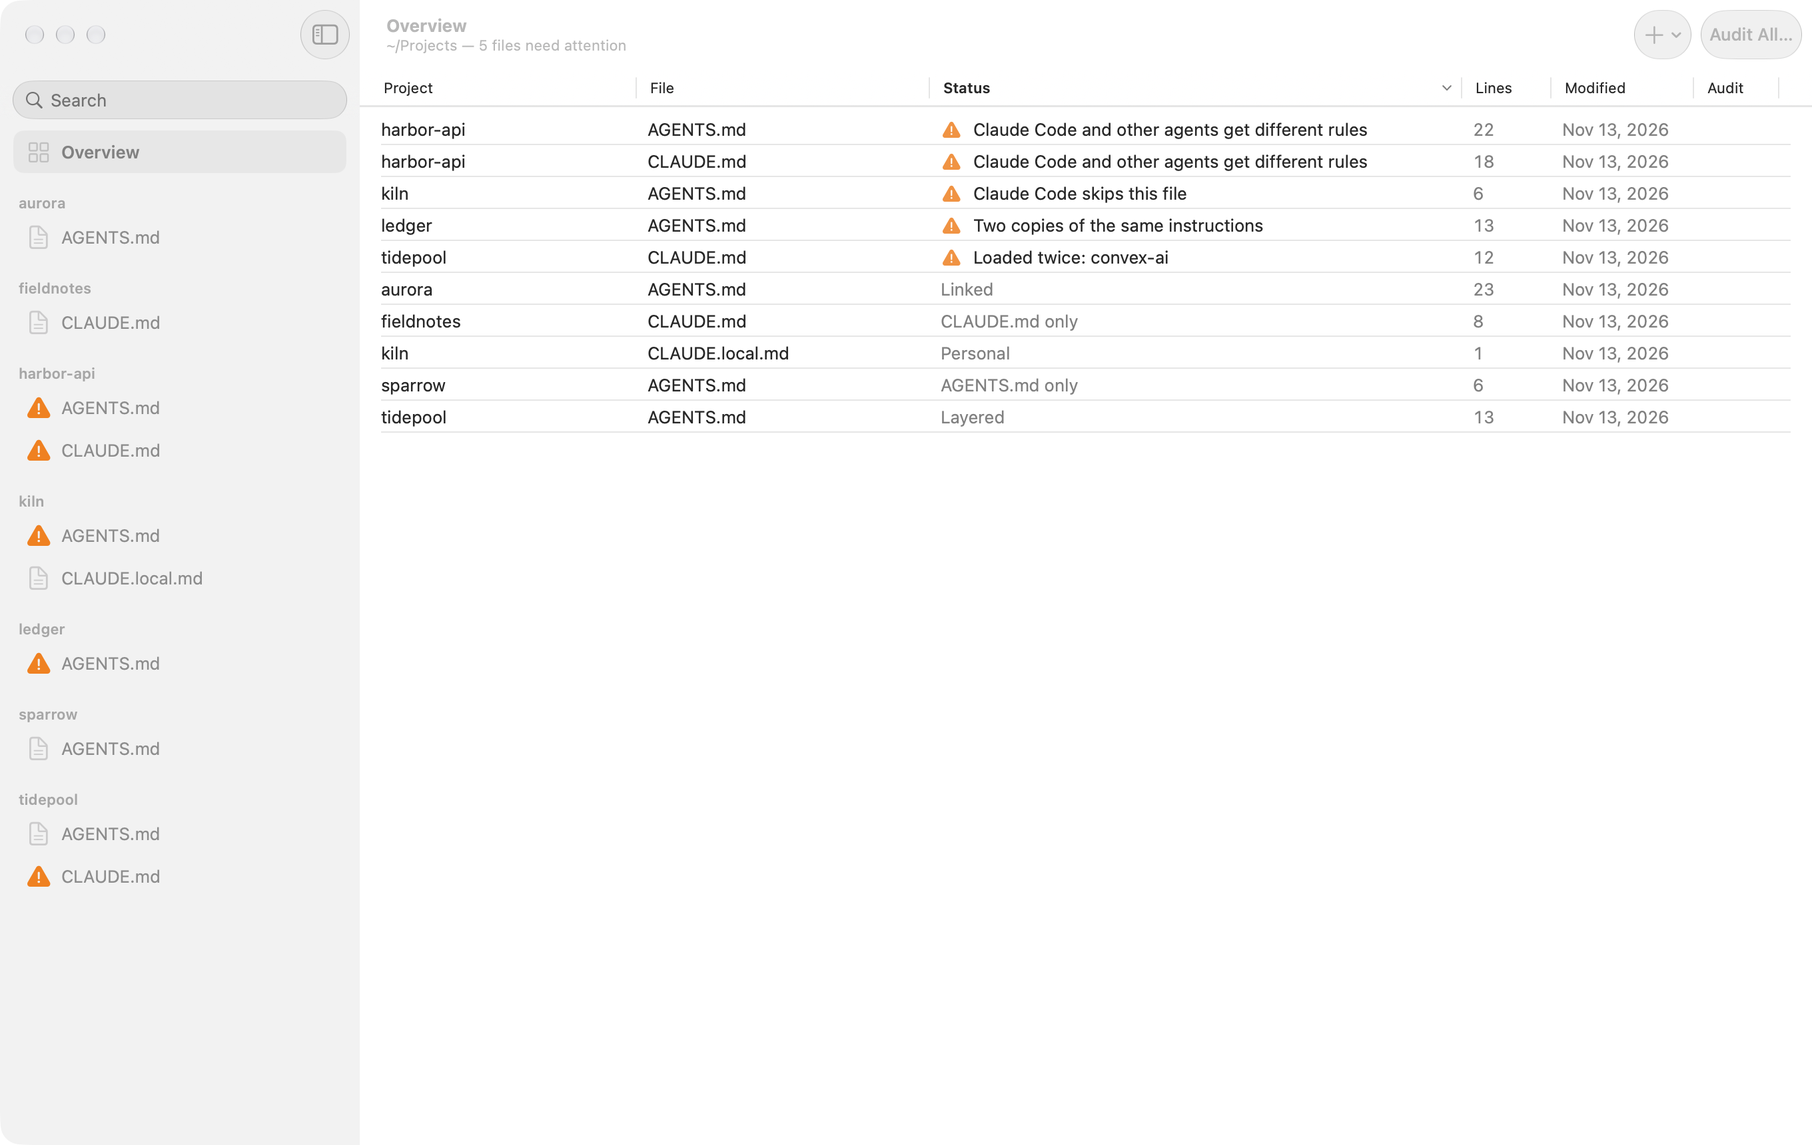
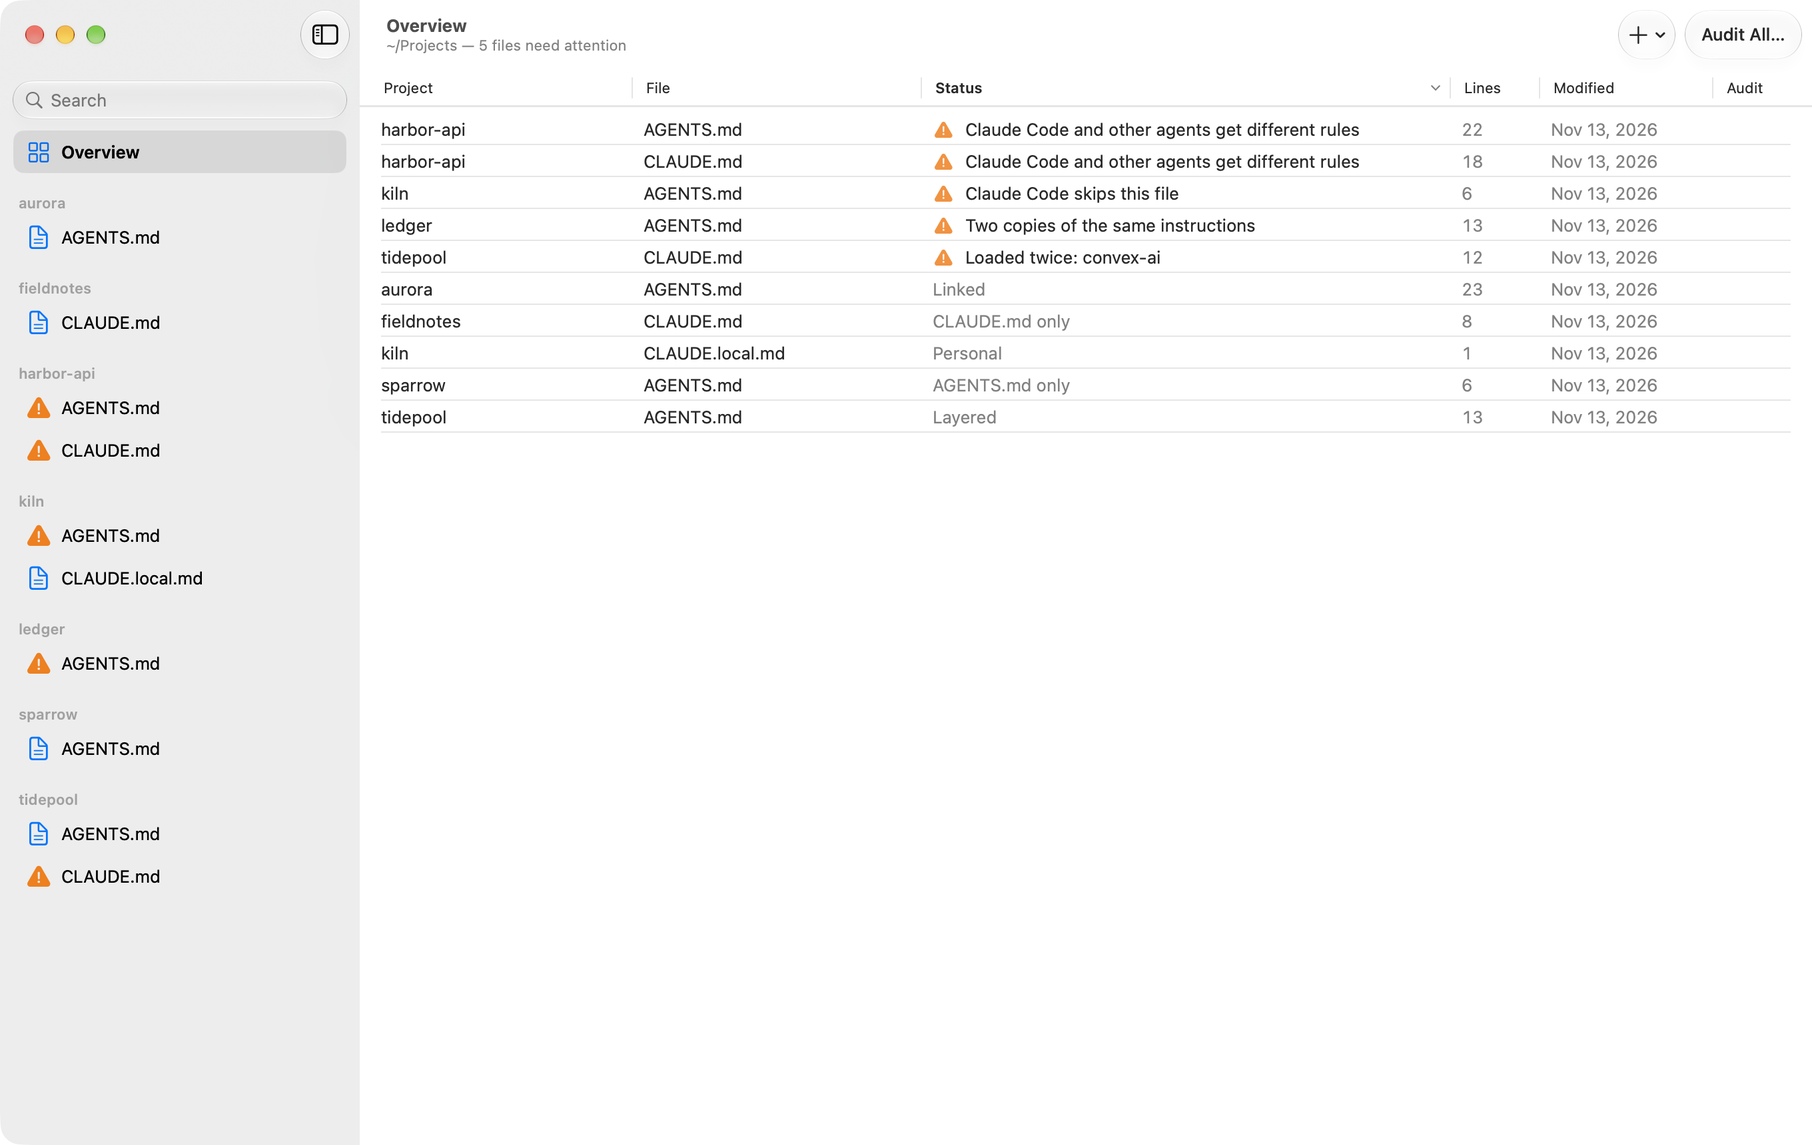
Add the website, a release script, a sidebar context menu and layout fixes
- docs/ is now the website for rulebook.duxi.ao, in English and Chinese
- scripts/release.sh builds a universal app and publishes it as a GitHub release
- Right-clicking a file in the sidebar opens a menu of actions
- Text toolbar buttons get side padding; the audit score no longer hangs beside a wrapped verdict
- The date column fits Chinese dates; screenshots capture an active window

diff --git a/docs/zh/index.html b/docs/zh/index.html
@@ -1,0 +1,88 @@
+<!doctype html>
+<html lang="zh-Hans">
+<head>
+<meta charset="utf-8">
+<meta name="viewport" content="width=device-width, initial-scale=1">
+<title>Rulebook：集中管理所有 CLAUDE.md 和 AGENTS.md</title>
+<meta name="description" content="一款 Mac 应用，找出所有项目里编程智能体读取的指令文件，告诉你哪些已经不一致，并帮你修好。">
+<meta property="og:title" content="Rulebook：集中管理所有 CLAUDE.md 和 AGENTS.md">
+<meta property="og:description" content="一款 Mac 应用，找出所有项目里编程智能体读取的指令文件，告诉你哪些已经不一致，并帮你修好。">
+<meta property="og:image" content="https://rulebook.duxi.ao/screenshots/overview.png">
+<meta property="og:url" content="https://rulebook.duxi.ao/zh/">
+<meta name="twitter:card" content="summary_large_image">
+<link rel="icon" href="../logo/icon.png">
+<link rel="alternate" hreflang="en" href="https://rulebook.duxi.ao/">
+<link rel="alternate" hreflang="zh-Hans" href="https://rulebook.duxi.ao/zh/">
+<link rel="stylesheet" href="../site.css">
+</head>
+<body>
+
+<header class="column top">
+  <a class="name" href="./">Rulebook</a>
+  <nav>
+    <a href="https://github.com/disinfeqt/rulebook">GitHub</a>
+    <a href="../" lang="en">English</a>
+  </nav>
+</header>
+
+<div class="rules"><div class="column"><svg viewBox="84 5 403.85 472" role="img" aria-label="R"><path d="M176.00 287.00L227.23 287.00L372.15 477.00L487.85 477.00L334.57 276.03C385.35 254.71 421.00 204.52 421.00 146.00C421.00 68.13 357.87 5.00 280.00 5.00L84.00 5.00L84.00 477.00L176.00 477.00ZM176.00 195.00L176.00 97.00L280.00 97.00C307.06 97.00 329.00 118.94 329.00 146.00C329.00 173.06 307.06 195.00 280.00 195.00Z"/></svg></div></div>
+
+<main class="column">
+  <div class="opening">
+    <h1>Mac 上所有的 CLAUDE.md 和 AGENTS.md，集中在一处。</h1>
+    <p class="lede">Rulebook 会找出所有项目里编程智能体读取的指令文件，告诉你哪些已经互相不一致，哪些根本没被读到，哪些还是为去年的模型写的，然后帮你把它们修好。</p>
+    <div class="get">
+      <a class="download" href="https://github.com/disinfeqt/rulebook/releases/latest/download/Rulebook.zip">下载 macOS 版</a>
+      <p>免费开源，需要 macOS 14 或更高版本。</p>
+    </div>
+  </div>
+
+  <figure><img src="../screenshots/zh/overview.png" width="2720" height="1720" alt="Rulebook 的概览：项目文件夹里所有指令文件的列表，需要处理的排在最前"></figure>
+
+  <section>
+    <h2>看清每个智能体实际读到了什么</h2>
+    <p>Claude Code 读 <code>CLAUDE.md</code>，Codex、Cursor 和大多数其他智能体读 <code>AGENTS.md</code>。当一个项目里两者都有时，Rulebook 会判断它们之间的关系，并告诉你每个文件由谁读取。</p>
+    <dl class="states">
+      <dt>已关联</dt><dd><code>CLAUDE.md</code> 只是导入 <code>AGENTS.md</code>，或是指向它的符号链接。所有智能体读的是同一份文件。</dd>
+      <dt>分层</dt><dd><code>CLAUDE.md</code> 导入了 <code>AGENTS.md</code>，并补充了只给 Claude Code 的规则。</dd>
+      <dt>内容重复</dt><dd>两份完全相同的副本。Rulebook 只显示一份，存储时同时写入两份。</dd>
+      <dt>内容不一致</dt><dd>两份内容不同的文件，每个智能体都读不到另一方的规则。</dd>
+      <dt>被跳过</dt><dd><code>AGENTS.md</code> 被 <code>CLAUDE.local.md</code> 或上级目录的 <code>CLAUDE.md</code> 取代，Claude Code 不会加载它。</dd>
+    </dl>
+    <figure><img src="../screenshots/zh/editor.png" width="2720" height="1720" loading="lazy" alt="正在编辑一份与 AGENTS.md 不一致的 CLAUDE.md，检查器里显示谁在读取这个文件，以及它有什么问题"></figure>
+  </section>
+
+  <section>
+    <h2>对比并合并已经不一致的文件</h2>
+    <p>两份文件出现差异时，“对比”会把它们并排显示。“合并”会让你的智能体把两者合成一份 <code>AGENTS.md</code>，以及一份导入它的 <code>CLAUDE.md</code>。存储之前，你可以先检查结果。</p>
+    <figure><img src="../screenshots/zh/compare.png" width="2720" height="1720" loading="lazy" alt="AGENTS.md 和 CLAUDE.md 并排显示，只有一方能读到的行被高亮"></figure>
+  </section>
+
+  <section>
+    <h2>用你已经在用的智能体来审查</h2>
+    <p>审查会对照项目检查一个文件：为旧模型写的指令、已经不存在的命令和路径、互相矛盾的规则。你会得到一个评分、可以跳转到对应原文的问题列表，以及以差异形式呈现的修改建议。</p>
+    <p>审查通过 <strong>Claude Code</strong> 或 <strong>Codex</strong> 运行，使用你已有的登录，并且无法修改你的文件。应用界面和审查结果都支持简体中文和英文。</p>
+    <figure><img src="../screenshots/zh/audit.png" width="2720" height="1720" loading="lazy" alt="检查器里的一次审查：评分、一句话结论和问题列表"></figure>
+  </section>
+
+  <section class="install" id="install">
+    <h2>安装</h2>
+    <ol>
+      <li><a href="https://github.com/disinfeqt/rulebook/releases/latest/download/Rulebook.zip">下载 Rulebook.zip</a> 并打开。</li>
+      <li>把 Rulebook 拖到“应用程序”文件夹，然后打开它。</li>
+      <li>选择存放各个项目的文件夹。</li>
+    </ol>
+    <p>第一个版本还没有经过 Apple 公证，所以第一次打开时 macOS 会拒绝。要允许它运行，请打开“系统设置”，进入“隐私与安全性”，在关于 Rulebook 的提示旁点按“仍要打开”。</p>
+    <p>你也可以用 Xcode 26 或更高版本<a href="https://github.com/disinfeqt/rulebook">从源代码构建</a>。</p>
+  </section>
+</main>
+
+<footer>
+  <div class="column">
+    <span>Rulebook 以 MIT 许可证发布。</span>
+    <a href="https://github.com/disinfeqt/rulebook">GitHub 上的源代码</a>
+  </div>
+</footer>
+
+</body>
+</html>

diff --git a/docs/index.html b/docs/index.html
@@ -1,0 +1,88 @@
+<!doctype html>
+<html lang="en">
+<head>
+<meta charset="utf-8">
+<meta name="viewport" content="width=device-width, initial-scale=1">
+<title>Rulebook: every CLAUDE.md and AGENTS.md in one place</title>
+<meta name="description" content="A Mac app that finds the instruction files your coding agents read across all your projects, shows which have drifted apart, and helps you fix them.">
+<meta property="og:title" content="Rulebook: every CLAUDE.md and AGENTS.md in one place">
+<meta property="og:description" content="A Mac app that finds the instruction files your coding agents read across all your projects, shows which have drifted apart, and helps you fix them.">
+<meta property="og:image" content="https://rulebook.duxi.ao/screenshots/overview.png">
+<meta property="og:url" content="https://rulebook.duxi.ao/">
+<meta name="twitter:card" content="summary_large_image">
+<link rel="icon" href="logo/icon.png">
+<link rel="alternate" hreflang="en" href="https://rulebook.duxi.ao/">
+<link rel="alternate" hreflang="zh-Hans" href="https://rulebook.duxi.ao/zh/">
+<link rel="stylesheet" href="site.css">
+</head>
+<body>
+
+<header class="column top">
+  <a class="name" href="./">Rulebook</a>
+  <nav>
+    <a href="https://github.com/disinfeqt/rulebook">GitHub</a>
+    <a href="zh/" lang="zh-Hans">中文</a>
+  </nav>
+</header>
+
+<div class="rules"><div class="column"><svg viewBox="84 5 403.85 472" role="img" aria-label="R"><path d="M176.00 287.00L227.23 287.00L372.15 477.00L487.85 477.00L334.57 276.03C385.35 254.71 421.00 204.52 421.00 146.00C421.00 68.13 357.87 5.00 280.00 5.00L84.00 5.00L84.00 477.00L176.00 477.00ZM176.00 195.00L176.00 97.00L280.00 97.00C307.06 97.00 329.00 118.94 329.00 146.00C329.00 173.06 307.06 195.00 280.00 195.00Z"/></svg></div></div>
+
+<main class="column">
+  <div class="opening">
+    <h1>Every CLAUDE.md and AGENTS.md on your Mac, in one place.</h1>
+    <p class="lede">Rulebook finds the instruction files your coding agents read, across all your projects. It shows which ones have drifted apart, which ones an agent never sees, and which were written for last year's models. Then it helps you fix them.</p>
+    <div class="get">
+      <a class="download" href="https://github.com/disinfeqt/rulebook/releases/latest/download/Rulebook.zip">Download for macOS</a>
+      <p>Free and open source. Needs macOS 14 or later.</p>
+    </div>
+  </div>
+
+  <figure><img src="screenshots/overview.png" width="2720" height="1720" alt="Rulebook's overview: a table of every instruction file in a projects folder, with the ones that need attention at the top"></figure>
+
+  <section>
+    <h2>See what each agent actually reads</h2>
+    <p>Claude Code reads <code>CLAUDE.md</code>. Codex, Cursor and most other agents read <code>AGENTS.md</code>. When a project has both, Rulebook works out how they relate and tells you who reads each file.</p>
+    <dl class="states">
+      <dt>Linked</dt><dd><code>CLAUDE.md</code> only imports <code>AGENTS.md</code>, or is a symlink to it. Every agent reads the same file.</dd>
+      <dt>Layered</dt><dd><code>CLAUDE.md</code> imports <code>AGENTS.md</code> and adds rules only Claude Code gets.</dd>
+      <dt>Duplicated</dt><dd>Two identical copies. Rulebook shows one and saves both.</dd>
+      <dt>Diverged</dt><dd>Two files with different content, so each agent misses rules the other one gets.</dd>
+      <dt>Skipped</dt><dd>An <code>AGENTS.md</code> that Claude Code never loads, because a <code>CLAUDE.local.md</code> or a parent <code>CLAUDE.md</code> takes its place.</dd>
+    </dl>
+    <figure><img src="screenshots/editor.png" width="2720" height="1720" loading="lazy" alt="Editing a CLAUDE.md that has diverged from its AGENTS.md. The inspector shows who reads the file and what is wrong with it"></figure>
+  </section>
+
+  <section>
+    <h2>Compare and merge files that drifted</h2>
+    <p>When two files have drifted apart, Compare puts them side by side. Merge asks your agent to combine them into one <code>AGENTS.md</code> and a <code>CLAUDE.md</code> that imports it. You review the result before anything is saved.</p>
+    <figure><img src="screenshots/compare.png" width="2720" height="1720" loading="lazy" alt="AGENTS.md and CLAUDE.md side by side, with the lines only one agent sees highlighted"></figure>
+  </section>
+
+  <section>
+    <h2>Audit with the agent you already use</h2>
+    <p>An audit checks a file against its project. It looks for instructions written for older models, commands and paths that no longer exist, and rules that contradict each other. You get a score, findings that jump to the text they are about, and suggested edits as a diff.</p>
+    <p>Audits run through <strong>Claude Code</strong> or <strong>Codex</strong> with your existing login, and they can't change your files. The app and its audits come in English and Simplified Chinese.</p>
+    <figure><img src="screenshots/audit.png" width="2720" height="1720" loading="lazy" alt="An audit in the inspector: a score of 88, a one-line verdict and a list of findings"></figure>
+  </section>
+
+  <section class="install" id="install">
+    <h2>Install</h2>
+    <ol>
+      <li><a href="https://github.com/disinfeqt/rulebook/releases/latest/download/Rulebook.zip">Download Rulebook.zip</a> and open it.</li>
+      <li>Drag Rulebook to your Applications folder and open it.</li>
+      <li>Choose the folder that holds your projects.</li>
+    </ol>
+    <p>This first version isn't notarized by Apple yet, so macOS will refuse to open it the first time. To allow it, open System Settings, go to Privacy &amp; Security, and click Open Anyway next to the message about Rulebook.</p>
+    <p>You can also <a href="https://github.com/disinfeqt/rulebook">build it from source</a> with Xcode 26 or later.</p>
+  </section>
+</main>
+
+<footer>
+  <div class="column">
+    <span>Rulebook is released under the MIT License.</span>
+    <a href="https://github.com/disinfeqt/rulebook">Source on GitHub</a>
+  </div>
+</footer>
+
+</body>
+</html>

diff --git a/docs/site.css b/docs/site.css
@@ -1,0 +1,118 @@
+/* Rulebook's site. The palette and the ruled lines come from the app icon: black ink on paper,
+   and the blue of ruled writing paper. */
+:root {
+  --paper: #fcfbf8;
+  --ink: #17181a;
+  --soft: #5c6068;
+  --rule: #8db9ea;
+  --link: #1f5fbf;
+  --hairline: #e4e2dc;
+  --column: 1040px;
+  --gutter: clamp(20px, 5vw, 56px);
+  color-scheme: light dark;
+}
+@media (prefers-color-scheme: dark) {
+  :root {
+    --paper: #141517;
+    --ink: #f3f2ee;
+    --soft: #a2a6ad;
+    --rule: #4e7fb5;
+    --link: #8db9ea;
+    --hairline: #2a2c30;
+  }
+}
+
+* { box-sizing: border-box; }
+html { -webkit-text-size-adjust: 100%; }
+body {
+  margin: 0;
+  background: var(--paper);
+  color: var(--ink);
+  font: 17px/1.55 -apple-system, BlinkMacSystemFont, "SF Pro Text", "PingFang SC", "Helvetica Neue", "Segoe UI", sans-serif;
+  -webkit-font-smoothing: antialiased;
+}
+a { color: var(--link); text-underline-offset: 0.18em; }
+a:focus-visible, .download:focus-visible { outline: 3px solid var(--rule); outline-offset: 3px; border-radius: 4px; }
+code { font: 0.92em ui-monospace, "SF Mono", Menlo, monospace; }
+
+.column { max-width: var(--column); margin: 0 auto; padding: 0 var(--gutter); }
+
+/* Header */
+.top { display: flex; align-items: baseline; justify-content: space-between; padding-top: 28px; padding-bottom: 28px; }
+.top .name { font-weight: 700; font-size: 19px; letter-spacing: -0.01em; color: var(--ink); text-decoration: none; }
+.top nav { display: flex; gap: 22px; font-size: 15px; }
+.top nav a { color: var(--soft); text-decoration: none; }
+.top nav a:hover { color: var(--ink); text-decoration: underline; }
+
+/* The letter on its three rules: cap height, a dashed midline, the baseline. They run the full width of the page. */
+.rules {
+  --height: clamp(132px, 21vw, 232px);
+  --weight: max(3px, calc(var(--height) * 0.021));
+  position: relative;
+  height: var(--height);
+  border-top: var(--weight) solid var(--rule);
+  border-bottom: var(--weight) solid var(--rule);
+}
+.rules::before {
+  content: "";
+  position: absolute;
+  left: 0; right: 0; top: calc(50% - var(--weight) / 2);
+  height: var(--weight);
+  background: repeating-linear-gradient(90deg, var(--rule) 0 calc(var(--weight) * 4.4), transparent 0 calc(var(--weight) * 7.8));
+}
+.rules .column { height: 100%; position: relative; }
+.rules svg { display: block; height: 100%; width: auto; fill: var(--ink); }
+
+/* Opening */
+.opening { padding-top: clamp(36px, 6vw, 64px); }
+h1 {
+  margin: 0;
+  max-width: 17em;
+  font-size: clamp(34px, 5.4vw, 60px);
+  line-height: 1.06;
+  font-weight: 700;
+  letter-spacing: -0.028em;
+  text-wrap: balance;
+}
+.lede { max-width: 38em; margin: 22px 0 0; font-size: clamp(18px, 2vw, 21px); line-height: 1.5; color: var(--soft); }
+.get { display: flex; flex-wrap: wrap; align-items: center; gap: 14px 22px; margin-top: 30px; }
+.download {
+  display: inline-block;
+  padding: 13px 22px;
+  border-radius: 11px;
+  background: var(--ink);
+  color: var(--paper);
+  font-weight: 600;
+  text-decoration: none;
+}
+.download:hover { opacity: 0.86; }
+.get p { margin: 0; font-size: 15px; color: var(--soft); }
+
+/* Screenshots are window captures with transparent corners, so the shadow follows the window. */
+figure { margin: clamp(40px, 7vw, 72px) 0 0; }
+figure img { display: block; width: 100%; height: auto; filter: drop-shadow(0 18px 38px rgba(0, 0, 0, 0.16)) drop-shadow(0 0 1px rgba(0, 0, 0, 0.28)); }
+@media (prefers-color-scheme: dark) {
+  figure img { filter: drop-shadow(0 18px 38px rgba(0, 0, 0, 0.5)); }
+}
+
+section { padding-top: clamp(72px, 11vw, 128px); }
+h2 { margin: 0; max-width: 20em; font-size: clamp(26px, 3.4vw, 36px); line-height: 1.14; font-weight: 700; letter-spacing: -0.02em; text-wrap: balance; }
+section > p, .install p { max-width: 38em; margin: 16px 0 0; color: var(--soft); }
+section > p strong { color: var(--ink); font-weight: 600; }
+
+/* How CLAUDE.md and AGENTS.md can relate */
+.states { display: grid; grid-template-columns: max-content 1fr; gap: 0 32px; max-width: 46em; margin: 30px 0 0; }
+.states dt, .states dd { margin: 0; padding: 11px 0; border-top: 1px solid var(--hairline); }
+.states dt { font-weight: 600; }
+.states dd { color: var(--soft); }
+@media (max-width: 560px) {
+  .states { grid-template-columns: 1fr; }
+  .states dd { border-top: 0; padding-top: 0; }
+}
+
+.install ol { max-width: 38em; margin: 16px 0 0; padding-left: 1.3em; color: var(--soft); }
+.install li { margin-top: 6px; }
+
+footer { margin-top: clamp(80px, 12vw, 136px); border-top: var(--weight, 3px) solid var(--rule); }
+footer .column { display: flex; flex-wrap: wrap; gap: 8px 24px; justify-content: space-between; padding-top: 24px; padding-bottom: 44px; font-size: 15px; color: var(--soft); }
+footer a { color: var(--soft); }

diff --git a/Sources/Rulebook/App/RulebookApp.swift b/Sources/Rulebook/App/RulebookApp.swift
@@ -42,7 +42,11 @@ final class AppDelegate: NSObject, NSApplicationDelegate {
         // and falls back to an offscreen render, which leaves them blank.
         if let i = args.firstIndex(of: "--snapshot"), i + 1 < args.count {
             let dir = URL(fileURLWithPath: (args[i + 1] as NSString).expandingTildeInPath, isDirectory: true)
-            DispatchQueue.main.asyncAfter(deadline: .now() + 3.5) {
+            // Come to the front first, so the windows are drawn as active ones.
+            DispatchQueue.main.asyncAfter(deadline: .now() + 3) {
+                NSRunningApplication.current.activate(options: [.activateAllWindows])
+            }
+            DispatchQueue.main.asyncAfter(deadline: .now() + 3.6) {
                 try? FileManager.default.createDirectory(at: dir, withIntermediateDirectories: true)
                 for (n, window) in NSApp.windows.filter({ $0.isVisible }).enumerated() {
                     let url = dir.appendingPathComponent("window-\(n).png")

diff --git a/Sources/Rulebook/Views/OverviewView.swift b/Sources/Rulebook/Views/OverviewView.swift
@@ -102,7 +102,7 @@ struct OverviewView: View {
                     Text(date.formatted(date: .abbreviated, time: .omitted)).foregroundStyle(.secondary)
                 }
             }
-            .width(min: 90, ideal: 110, max: 130)
+            .width(min: 96, ideal: 140, max: 180)
             TableColumn("Audit", value: \.score) { row in
                 AuditBadge(doc: row.doc)
             }

diff --git a/README.md b/README.md
@@ -2,6 +2,8 @@
 
 # Rulebook
 
+**[Download for macOS](https://github.com/disinfeqt/rulebook/releases/latest/download/Rulebook.zip)** · [rulebook.duxi.ao](https://rulebook.duxi.ao)
+
 A native macOS app for the agent instruction files across your projects. Point it at the folder that holds your projects and it finds every `CLAUDE.md`, `AGENTS.md` and `CLAUDE.local.md`, works out how they relate, and lets you edit, compare, merge and audit them in one place.
 
 ![Overview: every instruction file in a projects folder, with the ones that need attention first](docs/screenshots/overview.png)
@@ -47,6 +49,12 @@ Rulebook uses the first one it finds. Settings lets you pick the agent, a model 
 
 ⌘O open folder · ⌘S save · ⌥⌘S save all · ⌥⌘↓ / ⌥⌘↑ next / previous file · ⇧⌥⌘↓ next file that needs attention · ⌥⌘D compare · ⇧⌘M merge · ⌘R rescan · ⌥⌘I inspector
 
+## Install
+
+Download [Rulebook.zip](https://github.com/disinfeqt/rulebook/releases/latest/download/Rulebook.zip), open it, and drag Rulebook to your Applications folder. It needs macOS 14 or later.
+
+Releases aren't notarized by Apple yet, so macOS will refuse to open the app the first time. To allow it, open System Settings, go to Privacy & Security, and click Open Anyway next to the message about Rulebook.
+
 ## Build
 
 Open `Rulebook.xcodeproj` in Xcode 26 or later and run. The app runs on macOS 14 or later.
@@ -65,6 +73,8 @@ The app's own binary, `Rulebook.app/Contents/MacOS/Rulebook`, takes a few argume
 - `Rulebook --dump <folder>` prints the analysis without opening a window.
 - `Rulebook --root <folder> --audit <file>` runs one audit headless and stores the result where the app reads it. Add `--agent claude|codex` or `--model <name>` to choose.
 - `--root <folder>`, `--no-global` and `--store <folder>` point the app at another folder and audit store without changing your settings.
+
+`./scripts/release.sh` builds the app for both Mac architectures and publishes it as a GitHub release. The website in `docs/` is deployed from this repository, and its download button always points at the latest release.
 
 Two scripts regenerate checked-in files:
 
